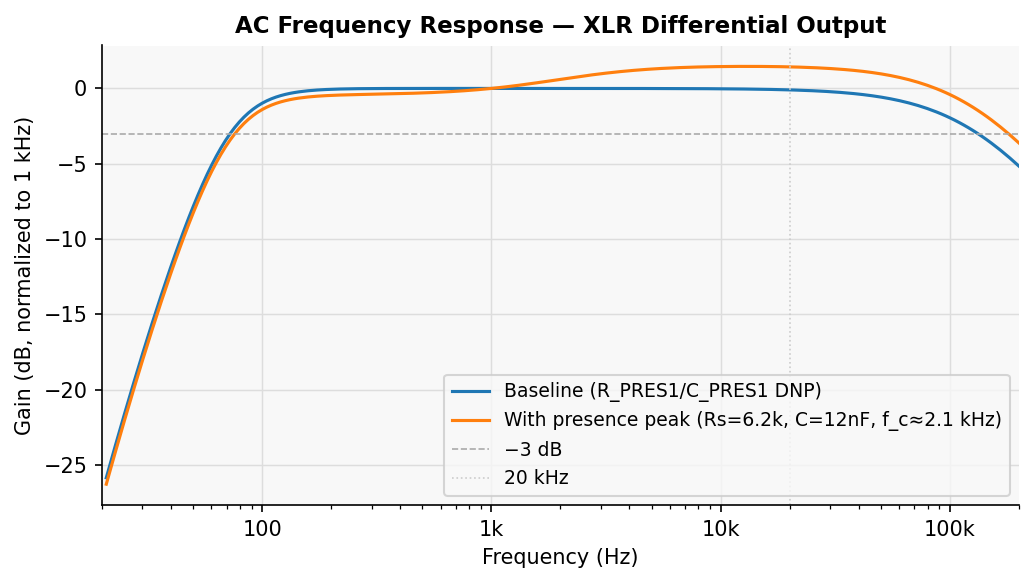
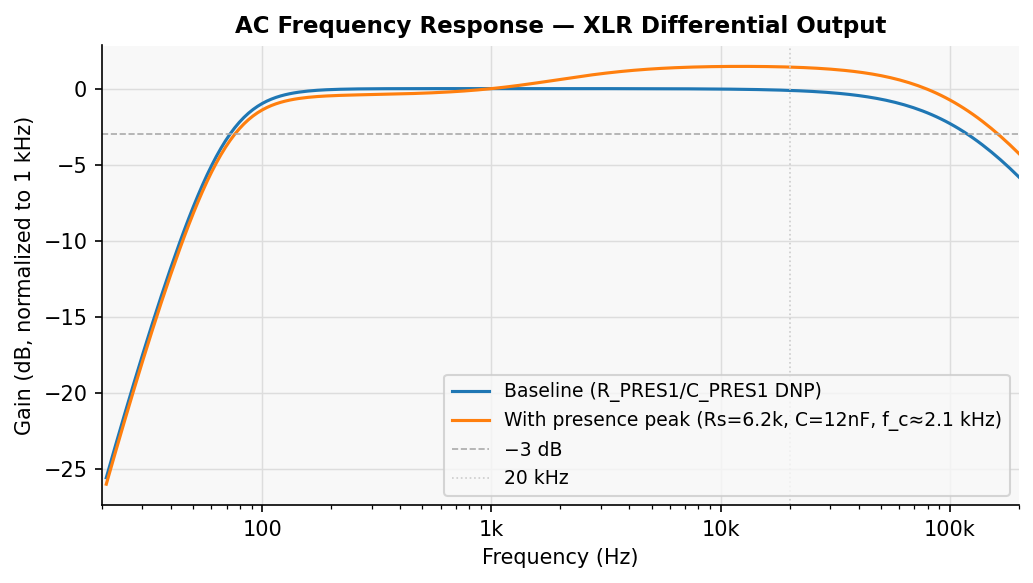
pcb: RF filter 47 ohm + 220 pF 100 V C0G 0603; output impedance about 200 ohm (#113)
R_RFI1/R_RFI2 were 100 ohm, 200 of the ~310 ohm output impedance. At 47 ohm
the output impedance is about 200 ohm and the level into 1.2-1.5 kohm
inputs is about 0.5 dB higher. C_RFI goes from 100 to 220 pF so the corner
stays at about 15 MHz.

C_RFI is now rated 100 V (0603). It sits on the phantom-fed pins, which
reach 52 V open circuit, and the TVS clamps at up to 93.6 V; the 100 pF
part was 50 V. The 0603 fits the old placement; pad-1 stubs moved to the
new pad centres. DRC, ERC and net checks pass.

Parts checked on JLCPCB 2026-11-11: C25118 (UNI-ROYAL 0402WGF470JTCE,
47 ohm 1%), C327164 (YAGEO CC0603JRNPO0BN221, 220 pF 100 V NP0, 864 in
stock).

amp_ac.sp's sensitivity window recentred (-40.7 dBV/Pa into 600 ohm);
README sensitivity -39 / -23 dBV/Pa into 1.5 kohm. analyze.py takes
--rfi-ohms 100 for boards up to v3.6.

Claude-Session: https://claude.ai/code/session_01JJVE6iPs7mqtayJNH2CABt

diff --git a/tools/measure/analyze.py b/tools/measure/analyze.py
@@ -6,7 +6,7 @@
         --v-source 0.412 --v-xlr 0.455 \\
         --tone-rec rec_tone_small.wav --noise-rec rec_noise.wav \\
         [--iface-noise-rec rec_iface_noise.wav] [--rload 4000] [--cdummy 56e-12] [--hi-gain] [--presence]
-        [--full-winding] [--no-cg] [--plot out.png]
+        [--full-winding] [--no-cg] [--rfi-ohms 100] [--plot out.png]
 
 Every group of inputs is optional; the report covers whatever is given:
 
@@ -36,7 +36,7 @@ CAPSULE_V_PER_PA = 13.07e-3  # vendor sheet, see working notes; only used to exp
 
 # Transformer and output parts not in gen_params (sim/models/passives.lib, gen_schematic.py)
 RS = 42.0                    # XLR-side winding DC resistance, measured
-R7, R_RFI = 100.0, 100.0
+R7, R_RFI = 100.0, 47.0      # R_RFI 100 ohm up to v3.6 (#113)
 # Driven winding of the NTE10/3: (step-down ratio, DC resistance)
 #   tap   red to blue, the default wiring: 3:1, 521 ohm measured
 #   full  red to black (README, "Full winding option"): 10:1, about 10.5 dB lower.
@@ -64,7 +64,7 @@ def par(a, b):
     return a * b / (a + b)
 
 
-def model(f, lp, r6=None, cdummy=56e-12, rload=4000.0, c7=None, cg=None, winding="tap", presence=False):
+def model(f, lp, r6=None, cdummy=56e-12, rload=4000.0, c7=None, cg=None, winding="tap", presence=False, r_rfi=R_RFI):
     """Complex transfer function, dummy-capacitor source voltage -> voltage across the preamp input.
     lp is the inductance of the driven winding in use (it scales with the turns squared).
     cg: C_G1 in series with R3 (#123); None takes the design value, 0 is a board without it."""
@@ -84,11 +84,11 @@ def model(f, lp, r6=None, cdummy=56e-12, rload=4000.0, c7=None, cg=None, winding
     zl = par(rg, 1 / (w * c8) + zb)
     v_in = zl / (zl + 1 / (w * cdummy)) * zb / (zb + 1 / (w * c8))
     # output network
-    z_out = par(r12, 2 * R_RFI + rload)
+    z_out = par(r12, 2 * r_rfi + rload)
     z2 = RS + z_out
     zm = par(w * lp, N * N * z2)
     v_p = zm / (R7 + 1 / (w * c7) + RP + zm)
-    v_load = v_p / N * z_out / z2 * rload / (2 * R_RFI + rload)
+    v_load = v_p / N * z_out / z2 * rload / (2 * r_rfi + rload)
     return v_in * gain * v_load
 
 
@@ -194,7 +194,8 @@ def report(a):
 
     fr = None
     kw = dict(cdummy=a.cdummy, rload=a.rload, r6=val(PARAMS["R6_hi_gain"]) if a.hi_gain else None,
-              cg=0 if a.no_cg else None, winding="full" if a.full_winding else "tap", presence=a.presence)
+              cg=0 if a.no_cg else None, winding="full" if a.full_winding else "tap", presence=a.presence,
+              r_rfi=a.rfi_ohms)
     if a.sweep_ref and a.sweep_rec:
         fs, ref = read_wav(a.sweep_ref)
         fs2, rec = read_wav(a.sweep_rec, a.channel)
@@ -341,7 +342,7 @@ def self_test():
     a = argparse.Namespace(sweep_ref=os.path.join(tmp, "ref.wav"), sweep_rec=os.path.join(tmp, "rec.wav"),
                            loopback_rec=None, v_source=v_source, v_xlr=v_xlr, tone_rec=os.path.join(tmp, "tone.wav"),
                            noise_rec=os.path.join(tmp, "noise.wav"), iface_noise_rec=None, rload=rload,
-                           cdummy=56e-12, hi_gain=False, no_cg=False, full_winding=False, presence=False,
+                           cdummy=56e-12, hi_gain=False, no_cg=False, full_winding=False, presence=False, rfi_ohms=R_RFI,
                            channel=0, plot=None)
     out = report(a)
     checks = [
@@ -375,6 +376,7 @@ def main():
     p.add_argument("--no-cg", action="store_true", help="board has no C_G1 in series with R3 (v3.5.x, v3.6)")
     p.add_argument("--presence", action="store_true", help="board has R_PRES1 and C_PRES1 fitted")
     p.add_argument("--full-winding", action="store_true", help="transformer wired on its full winding (10:1)")
+    p.add_argument("--rfi-ohms", type=float, default=R_RFI, help=f"R_RFI1/R_RFI2 value (default {R_RFI:g}; 100 on boards up to v3.6)")
     p.add_argument("--channel", type=int, default=0, help="channel index in the recordings (default 0)")
     p.add_argument("--plot", help="write a frequency response plot to this PNG")
     p.add_argument("--self-test", action="store_true", help="run the built-in check on synthetic data")

diff --git a/pcb/gen_pcb.py b/pcb/gen_pcb.py
@@ -603,9 +603,9 @@ def route_all(board):
           (10.0,  85.47))   # to R_RFI1 pad2
 
     # ── XLR_HOT_F: R_RFI1-pad1 → C_RFI1-pad1 + J3-pad2 ─────────────
-    # R_RFI1 pad1 (10.0,86.53); T-junction at (10,87); C_RFI1 pad1 (12.47,87)
-    # C_RFI1 pad2 (GND, 13.53,87): connected via F.Cu GND zone fill — no stub/via needed.
-    route(board, "XLR_HOT_F", F, SIG, (10.0, 86.53), (10.0, 87.0), (12.47, 87.0))
+    # R_RFI1 pad1 (10.0,86.53); T-junction at (10,87); C_RFI1 pad1 (12.225,87)
+    # C_RFI1 pad2 (GND, 13.775,87): connected via F.Cu GND zone fill — no stub/via needed.
+    route(board, "XLR_HOT_F", F, SIG, (10.0, 86.53), (10.0, 87.0), (12.225, 87.0))
     route(board, "XLR_HOT_F", F, SIG, (10.0, 87.0), (10.0, 88.54), (20.0, 88.54), (20.0, 90.0))
     # TVS1 shunt tap (#60, #93): the y=88.54 XLR_HOT_F run above passes
     # straight through TVS1 pad1 (14.7,88.6); short stub ties it to pad centre.
@@ -628,9 +628,9 @@ def route_all(board):
           (22.0,  85.47))   # to R_RFI2 pad2
 
     # ── XLR_COLD_F: R_RFI2-pad1 → C_RFI2-pad1 + J3-pad3 ───────────
-    # R_RFI2 pad1 (22.0,86.53); T-junction at (22,87); C_RFI2 pad1 (24.47,87)
-    # C_RFI2 pad2 (GND, 25.53,87): connected via F.Cu GND zone fill — no stub/via needed.
-    route(board, "XLR_COLD_F", F, SIG, (22.0, 86.53), (22.0, 87.0), (24.47, 87.0))
+    # R_RFI2 pad1 (22.0,86.53); T-junction at (22,87); C_RFI2 pad1 (24.225,87)
+    # C_RFI2 pad2 (GND, 25.775,87): connected via F.Cu GND zone fill — no stub/via needed.
+    route(board, "XLR_COLD_F", F, SIG, (22.0, 86.53), (22.0, 87.0), (24.225, 87.0))
     route(board, "XLR_COLD_F", F, SIG, (22.0, 87.0), (22.0, 89.0), (22.54, 89.0), (22.54, 90.0))
     # TVS2 shunt tap (#60, #93): stub from the XLR_COLD_F jog at (22.54,89)
     # to TVS2 pad1 (25.3,88.6).
@@ -992,19 +992,20 @@ def main():
     # Placed in-line with XLR_HOT/COLD verticals (x=10, x=22) at y=86
     # Shunt caps at y=87, 1.5mm right of series R; GND via below each cap
     place(board, "Resistor_SMD", "R_0402_1005Metric",
-          "R_RFI1", "100R", 10, 86, 90,
+          "R_RFI1", "47R", 10, 86, 90,
           {"1": "XLR_HOT_F", "2": "XLR_HOT"})
 
     place(board, "Resistor_SMD", "R_0402_1005Metric",
-          "R_RFI2", "100R", 22, 86, 90,
+          "R_RFI2", "47R", 22, 86, 90,
           {"1": "XLR_COLD_F", "2": "XLR_COLD"})
 
-    place(board, "Capacitor_SMD", "C_0402_1005Metric",
-          "C_RFI1", "100p C0G", 13, 87, 0,
+    # C_RFI1/C_RFI2: 220p 100V C0G 0603 (#113): pad1 (12.225,87) / (24.225,87), pad2 on the GND fill
+    place(board, "Capacitor_SMD", "C_0603_1608Metric",
+          "C_RFI1", "220p 100V C0G", 13, 87, 0,
           {"1": "XLR_HOT_F", "2": "GND"})
 
-    place(board, "Capacitor_SMD", "C_0402_1005Metric",
-          "C_RFI2", "100p C0G", 25, 87, 0,
+    place(board, "Capacitor_SMD", "C_0603_1608Metric",
+          "C_RFI2", "220p 100V C0G", 25, 87, 0,
           {"1": "XLR_COLD_F", "2": "GND"})
 
     # TVS1/TVS2 (#60, #93): bidirectional TVS protection shunt, right at the

diff --git a/pcb/gen_bom.py b/pcb/gen_bom.py
@@ -70,6 +70,7 @@ LCSC = {
     ("68k",       "R_0402_1005Metric"):            "C36871",    # UNI-ROYAL 0402WGF6802TCE ±1% — R_OSC1 (#121, ICM7555 timing with C10 100p, ~105 kHz); 120k stock
     ("47k",       "R_0402_1005Metric"):            "C25792",    # UNI-ROYAL 0402WGF4702TCE ±1% BASIC — R6 hi-gain variant; C25900 maps to 4.7kΩ in JLCPCB
     ("100R",      "R_0402_1005Metric"):            "C25076",
+    ("47R",       "R_0402_1005Metric"):            "C25118",    # UNI-ROYAL 0402WGF470JTCE ±1%; R_RFI1/2 (#113); Extended (promotional), checked 2026-11-11
     ("470k",      "R_0402_1005Metric"):            "C137976",   # YAGEO RC0402FR-07470KL ±1%; C25905 maps to 5.1kΩ in JLCPCB
 
     # Precision resistors (0603) — R1/R2 matched pair
@@ -83,7 +84,8 @@ LCSC = {
     ("100n 25V X7R",  "C_0402_1005Metric"):        "C77014",    # GRM155R71E104KE14D Murata; C307331 out of stock — C_U3 (15V rail)
     ("100n 50V X7R",  "C_0402_1005Metric"):        "C131394",   # YAGEO CC0402KRX7R9BB104 ±10% 50V — C2/C3 on V_OPA (up to 24.6V), same margin reasoning as C5/C6 in #54 (#100). Not C60474: that is the 16V CC0402KRX7R7BB104
     ("100n 63V X7R",  "C_0402_1005Metric"):        "C162178",   # GRM155R62A104KE14D muRata 100V X5R
-    ("100p C0G",      "C_0402_1005Metric"):        "C445763",   # TDK C1005C0G1H101JT000F 100pF 50V C0G; C1554 maps to 20pF in JLCPCB
+    ("100p C0G",      "C_0402_1005Metric"):        "C445763",
+    ("220p 100V C0G", "C_0603_1608Metric"):        "C327164",   # YAGEO CC0603JRNPO0BN221 220pF 100V NP0 ±5%; C_RFI1/2 (#113): phantom-fed pins need > 52V. Extended, 864 in stock 2026-11-11   # TDK C1005C0G1H101JT000F 100pF 50V C0G; C1554 maps to 20pF in JLCPCB
 
     # Standard capacitors (0603/0805/1206)
     ("10u 25V X5R",   "C_0603_1608Metric"):        "C344022",   # GRM188R61E106KA73D muRata

diff --git a/pcb/gen_schematic.py b/pcb/gen_schematic.py
@@ -791,26 +791,28 @@ elements.append(wire(239.38, 64.46, 239.38, 57))
 elements.append(wire(239.38, 57, 235, 57))
 elements.append(power_sym("power:GND", 235, 57, 0))
 
-# RFI filter: 100R series + 100pF C0G shunt on each XLR leg (fc ~16 MHz)
+# RFI filter: 47R series + 220pF C0G shunt on each XLR leg (fc ~15 MHz). Was 100R + 100pF
+# (16 MHz), which put 200 ohm of the ~310 ohm output impedance in the signal path (#113).
+# C_RFI is 100V 0603: it sits on the phantom-fed pins (up to 52V open circuit, TVS clamp 93.6V).
 # Placed between TS1 and J3 so signal flow reads left-to-right: TS1→R_RFI→C_RFI→J3
-elements += component("Device:R", "R_RFI1", "100R",
+elements += component("Device:R", "R_RFI1", "47R",
     210, 58,
     footprint="Resistor_SMD:R_0402_1005Metric",
     pins={"1": "~XLR_HOT", "2": "~XLR_HOT_F"})
 
-elements += component("Device:C", "C_RFI1", "100p C0G",
+elements += component("Device:C", "C_RFI1", "220p 100V C0G",
     222, 54,
-    footprint="Capacitor_SMD:C_0402_1005Metric",
+    footprint="Capacitor_SMD:C_0603_1608Metric",
     pins={"1": "~XLR_HOT_F", "2": "GND"})
 
-elements += component("Device:R", "R_RFI2", "100R",
+elements += component("Device:R", "R_RFI2", "47R",
     210, 76,
     footprint="Resistor_SMD:R_0402_1005Metric",
     pins={"1": "~XLR_COLD", "2": "~XLR_COLD_F"})
 
-elements += component("Device:C", "C_RFI2", "100p C0G",
+elements += component("Device:C", "C_RFI2", "220p 100V C0G",
     222, 76,
-    footprint="Capacitor_SMD:C_0402_1005Metric",
+    footprint="Capacitor_SMD:C_0603_1608Metric",
     pins={"1": "~XLR_COLD_F", "2": "GND"})
 
 # TVS1/TVS2 (#60): bidirectional ESD/TVS protection on XLR_HOT_F/XLR_COLD_F,

diff --git a/docs/measurement.md b/docs/measurement.md
@@ -11,8 +11,9 @@ with data. Neither needs an oscilloscope.
 Written for a board at default gain (R6 = 5.6 kΩ). For a hi-gain board
 (R6 = 47 kΩ) pass `--hi-gain` to both scripts. Tell `analyze.py` about the
 other options too: `--presence` with R_PRES1 and C_PRES1 fitted,
-`--full-winding` with the transformer on its full winding, and `--no-cg` for a
-board without C_G1 (v3.5.x, v3.6).
+`--full-winding` with the transformer on its full winding. A board up to v3.6
+needs `--no-cg` (no C_G1, #123) and `--rfi-ohms 100` (100 Ω RFI resistors; 47 Ω
+since #113).
 
 Tracking issue: #114. Related: #82 (hum), #99 (transformer inductance).
 
@@ -215,7 +216,7 @@ group of inputs is optional, so a partial session still gives a partial report.
 
 | Result | Simulation | What a difference means |
 |---|---|---|
-| Gain at 1 kHz | about −1.2 dB into 4 kΩ with a 56 pF dummy (sensitivity about −39 dBV/Pa with a 13 mV/Pa capsule) | more than ±1.5 dB off: check R3, R6, the load value and the meter readings |
+| Gain at 1 kHz | about −1.0 dB into 4 kΩ with a 56 pF dummy (sensitivity about −39 dBV/Pa with a 13 mV/Pa capsule); about 0.2 dB lower on boards up to v3.6 (100 Ω RFI resistors) | more than ±1.5 dB off: check R3, R6, the load value and the meter readings |
 | Low-frequency −3 dB corner | about 30 Hz on the full winding (set by the input network); on the 3-turn section anywhere from about 25 to 80 Hz, depending on `Lp` | on the 3-turn section the fitted `Lp` is the useful result: `sim/models/passives.lib` uses its lower bound, 1 H (#114) |
 | Fit error | below about 1 dB | larger: the low end is not behaving like the model. Compare with the hot sweep for saturation |
 | Self-noise | about 20 dB(A) equivalent with a 47 to 56 pF dummy (19.1 with a 55 pF capsule); about 45 nV/√Hz at 1 kHz, 12 nV/√Hz at 10 kHz | higher at low frequency only: leakage or hum. Higher everywhere: supply or interface noise. Check the interface margin line |

diff --git a/README.md b/README.md
@@ -14,9 +14,9 @@ This design uses a Dickson charge pump oscillator to generate a 68 V HV rail fro
 - CD40106B Schmitt-trigger oscillator + 3-stage active Dickson charge pump
 - About 57 V capsule polarization (HV_FILT ≈ 69 V, set by the 15 V clock rail; a 75 V zener only protects it), referenced to the 12 V midpoint
 - HV rail RC filter: 1 MΩ (R_HV) + 470 nF, corner ~0.34 Hz; no LC resonance
-- Output sensitivity (simulated, 13 mV/Pa capsule, into a 1.5 kΩ preamp input): about −40 dBV/Pa default (R6 = 5.6 kΩ, gain ≈ 3.5×); about −24 dBV/Pa hi-gain (R6 = 47 kΩ, gain ≈ 22×). About 2 dB lower into 600 Ω and 1.6 dB higher unloaded; output impedance is about 310 Ω
+- Output sensitivity (simulated, 13 mV/Pa capsule, into a 1.5 kΩ preamp input): about −39 dBV/Pa default (R6 = 5.6 kΩ, gain ≈ 3.5×); about −23 dBV/Pa hi-gain (R6 = 47 kΩ, gain ≈ 22×). About 1.4 dB lower into 600 Ω and 1.1 dB higher unloaded; output impedance is about 200 Ω (about 310 Ω up to v3.6, with 100 Ω RFI resistors; #113)
 - Maximum SPL before the op-amp output clips (calculated): about 143 dB SPL peak at default gain, about 127 dB SPL peak at hi-gain
-- RFI filter on XLR output: differential RC network (R_RFI1/R_RFI2 + C_RFI1/C_RFI2)
+- RFI filter on XLR output: 47 Ω + 220 pF on each leg (R_RFI1/R_RFI2, C_RFI1/C_RFI2; corner about 15 MHz). C_RFI is rated 100 V because it sits on the phantom-fed pins
 - Phantom power draw: ~4.6 mA typical at 48 V (IEC 61938 P48 rated maximum: 10 mA)
 - All SMD/THT components available from standard distributors (LCSC, Mouser, Digi-Key); capsule and transformer are customer-supplied
 
